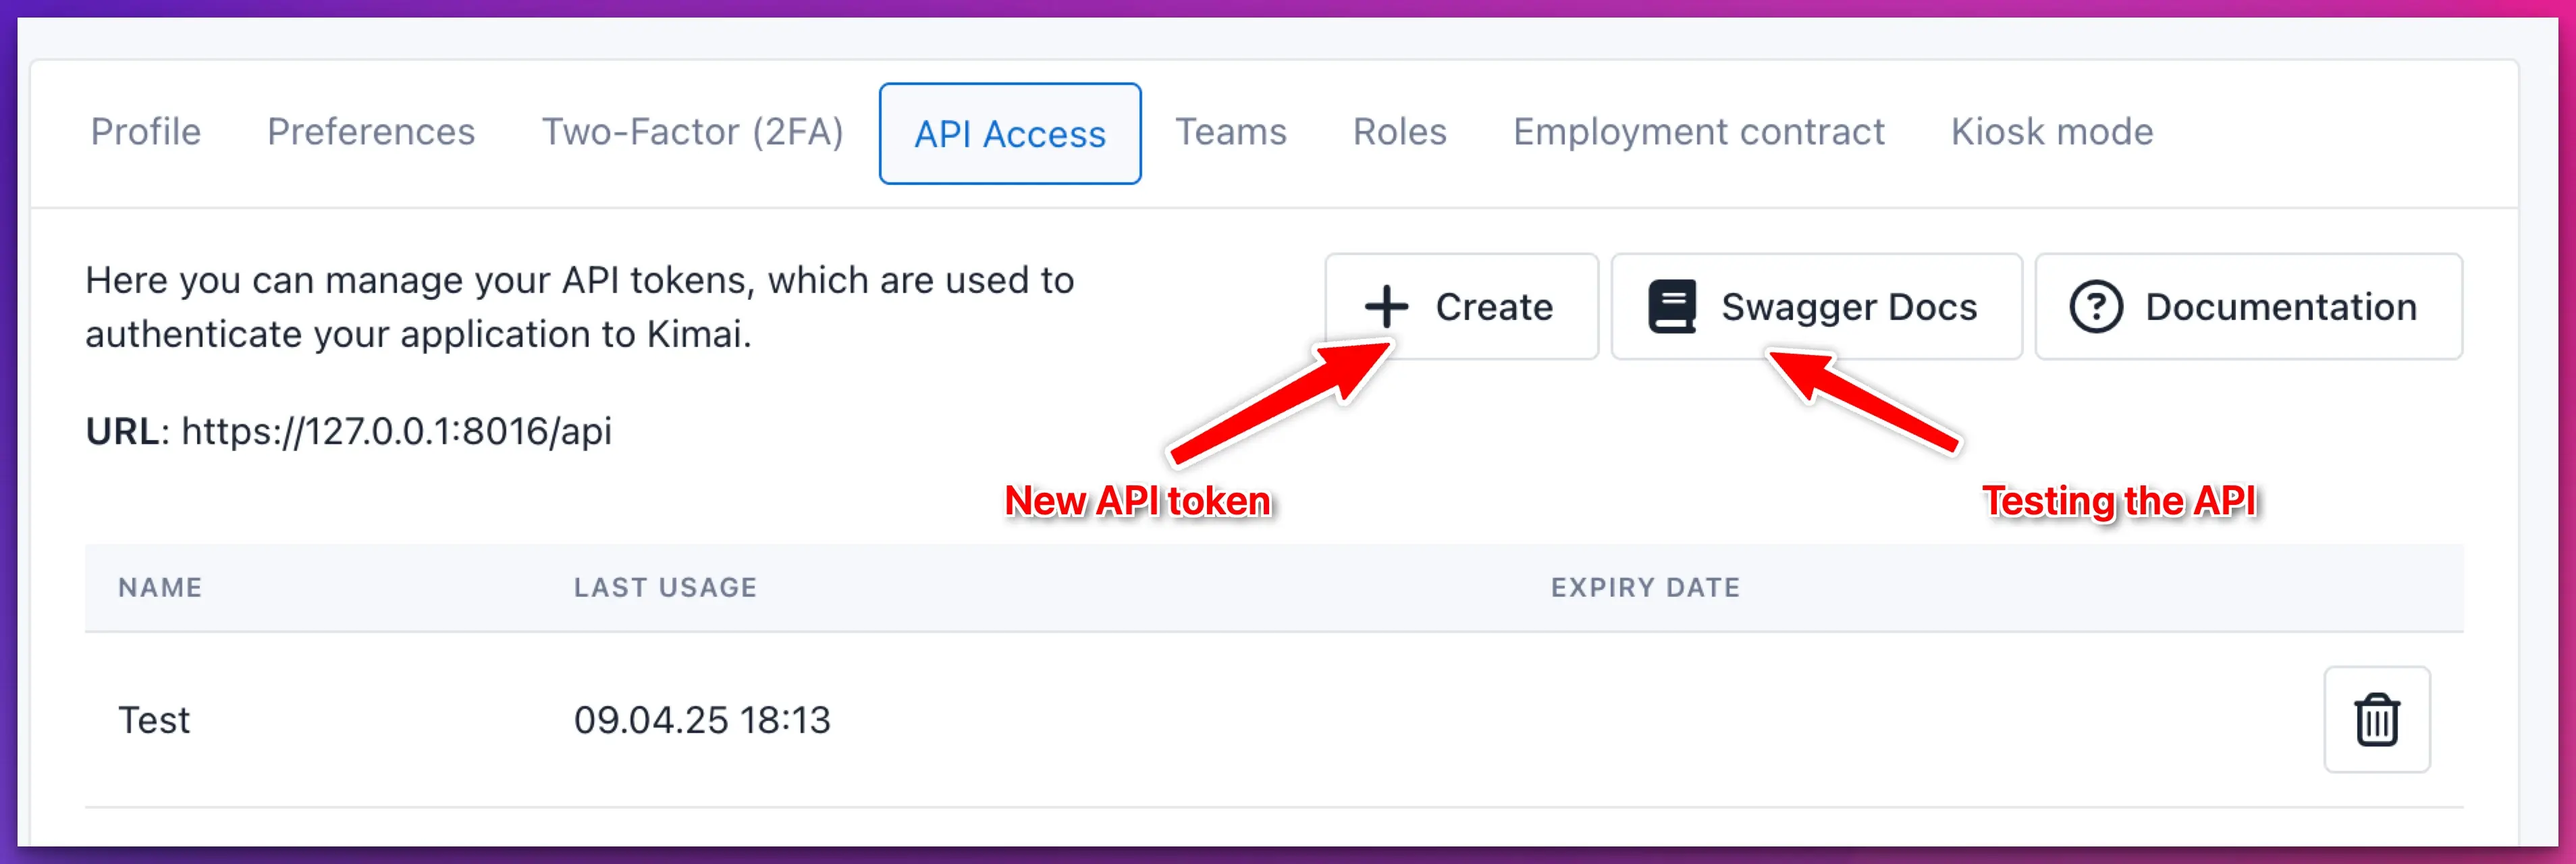
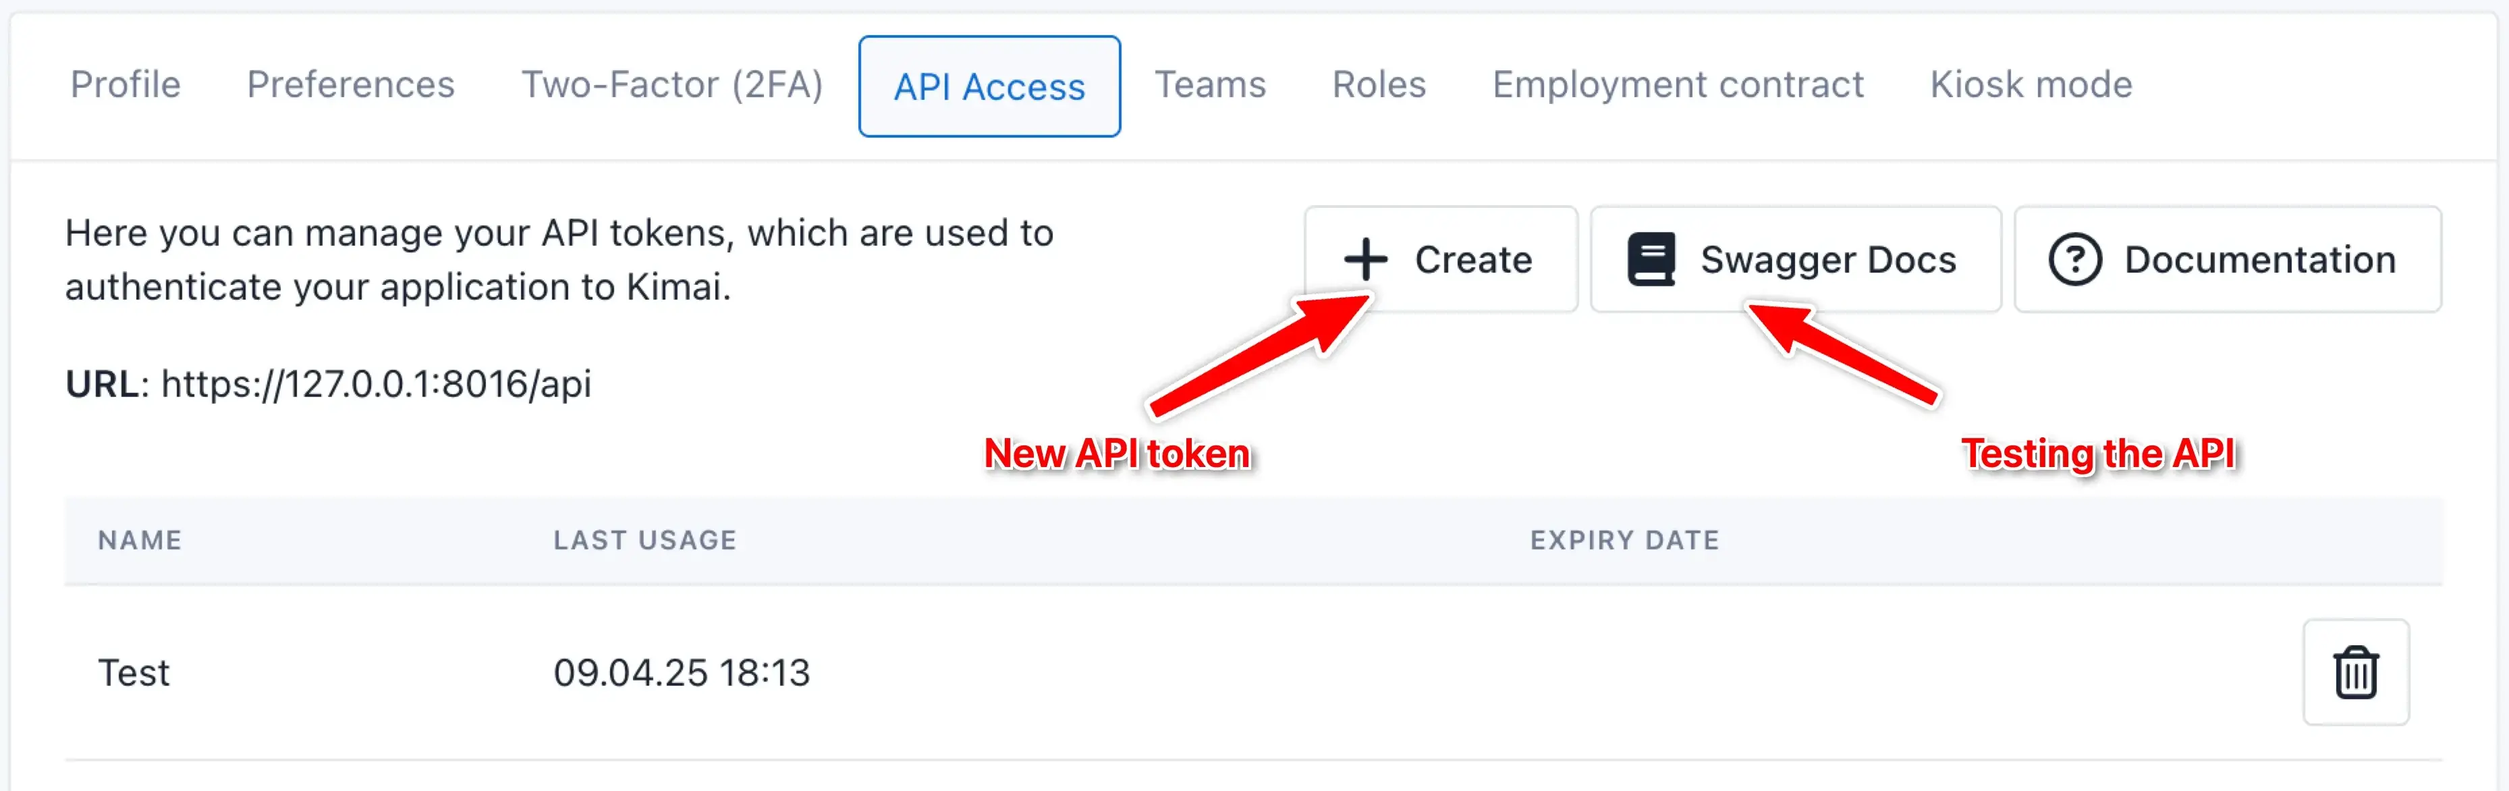
border in documentation images via css

diff --git a/_includes/docs-image.html b/_includes/docs-image.html
@@ -1,6 +1,6 @@
 {% if include.src %}
 <figure class="d-block figure mb-3"{% if include.width %} style="max-width: {{ include.width }}"{% endif %}>
-    <img src="{{ include.src }}"{% if include.alt %} alt="{{ include.alt }}"{% endif %} class="figure-img img-fluid rounded">
+    <img src="{{ include.src }}"{% if include.alt %} alt="{{ include.alt }}"{% endif %} class="figure-img img-fluid rounded border border-primary border-3 p-2">
     <figcaption class="figure-caption">{{ include.title }}</figcaption>
 </figure>
 {% endif %}
